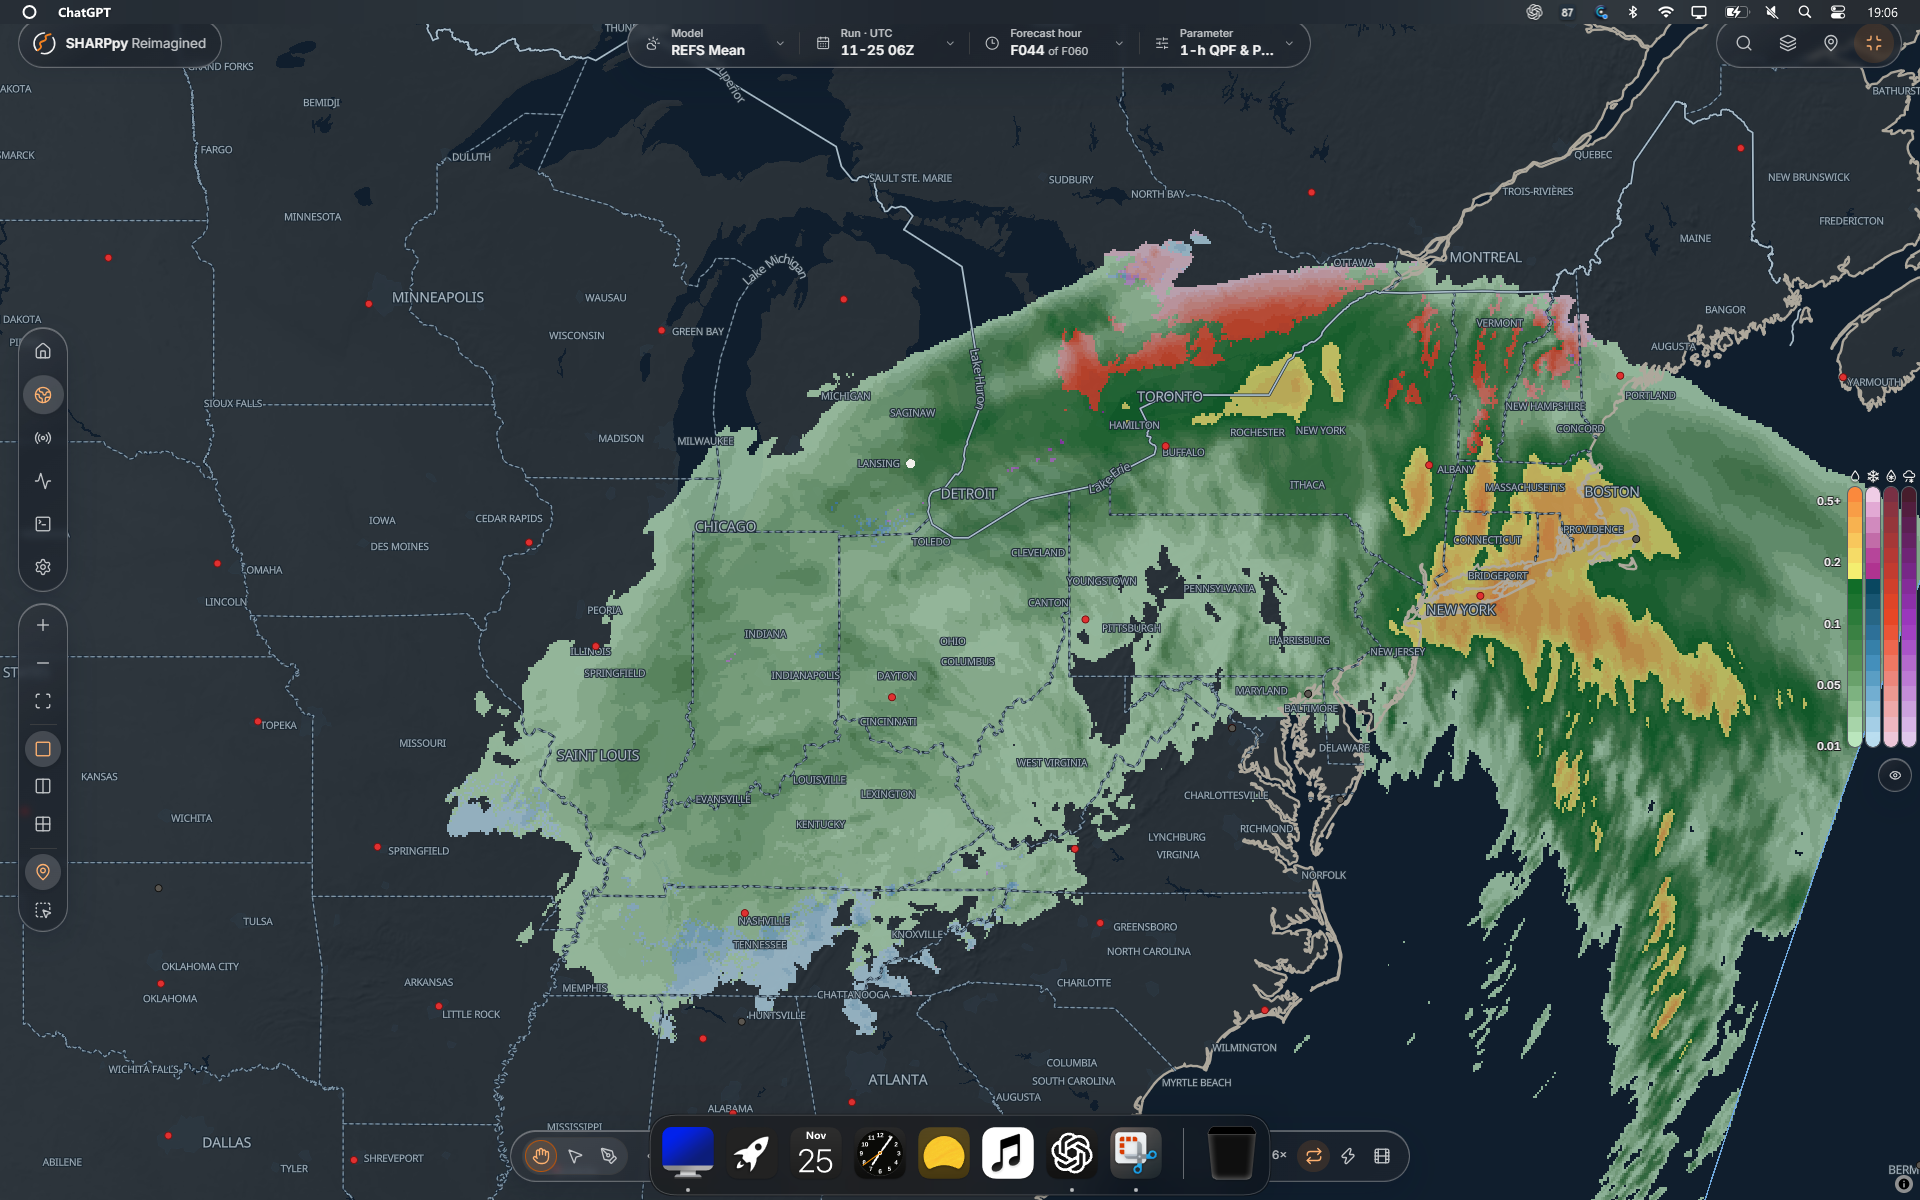
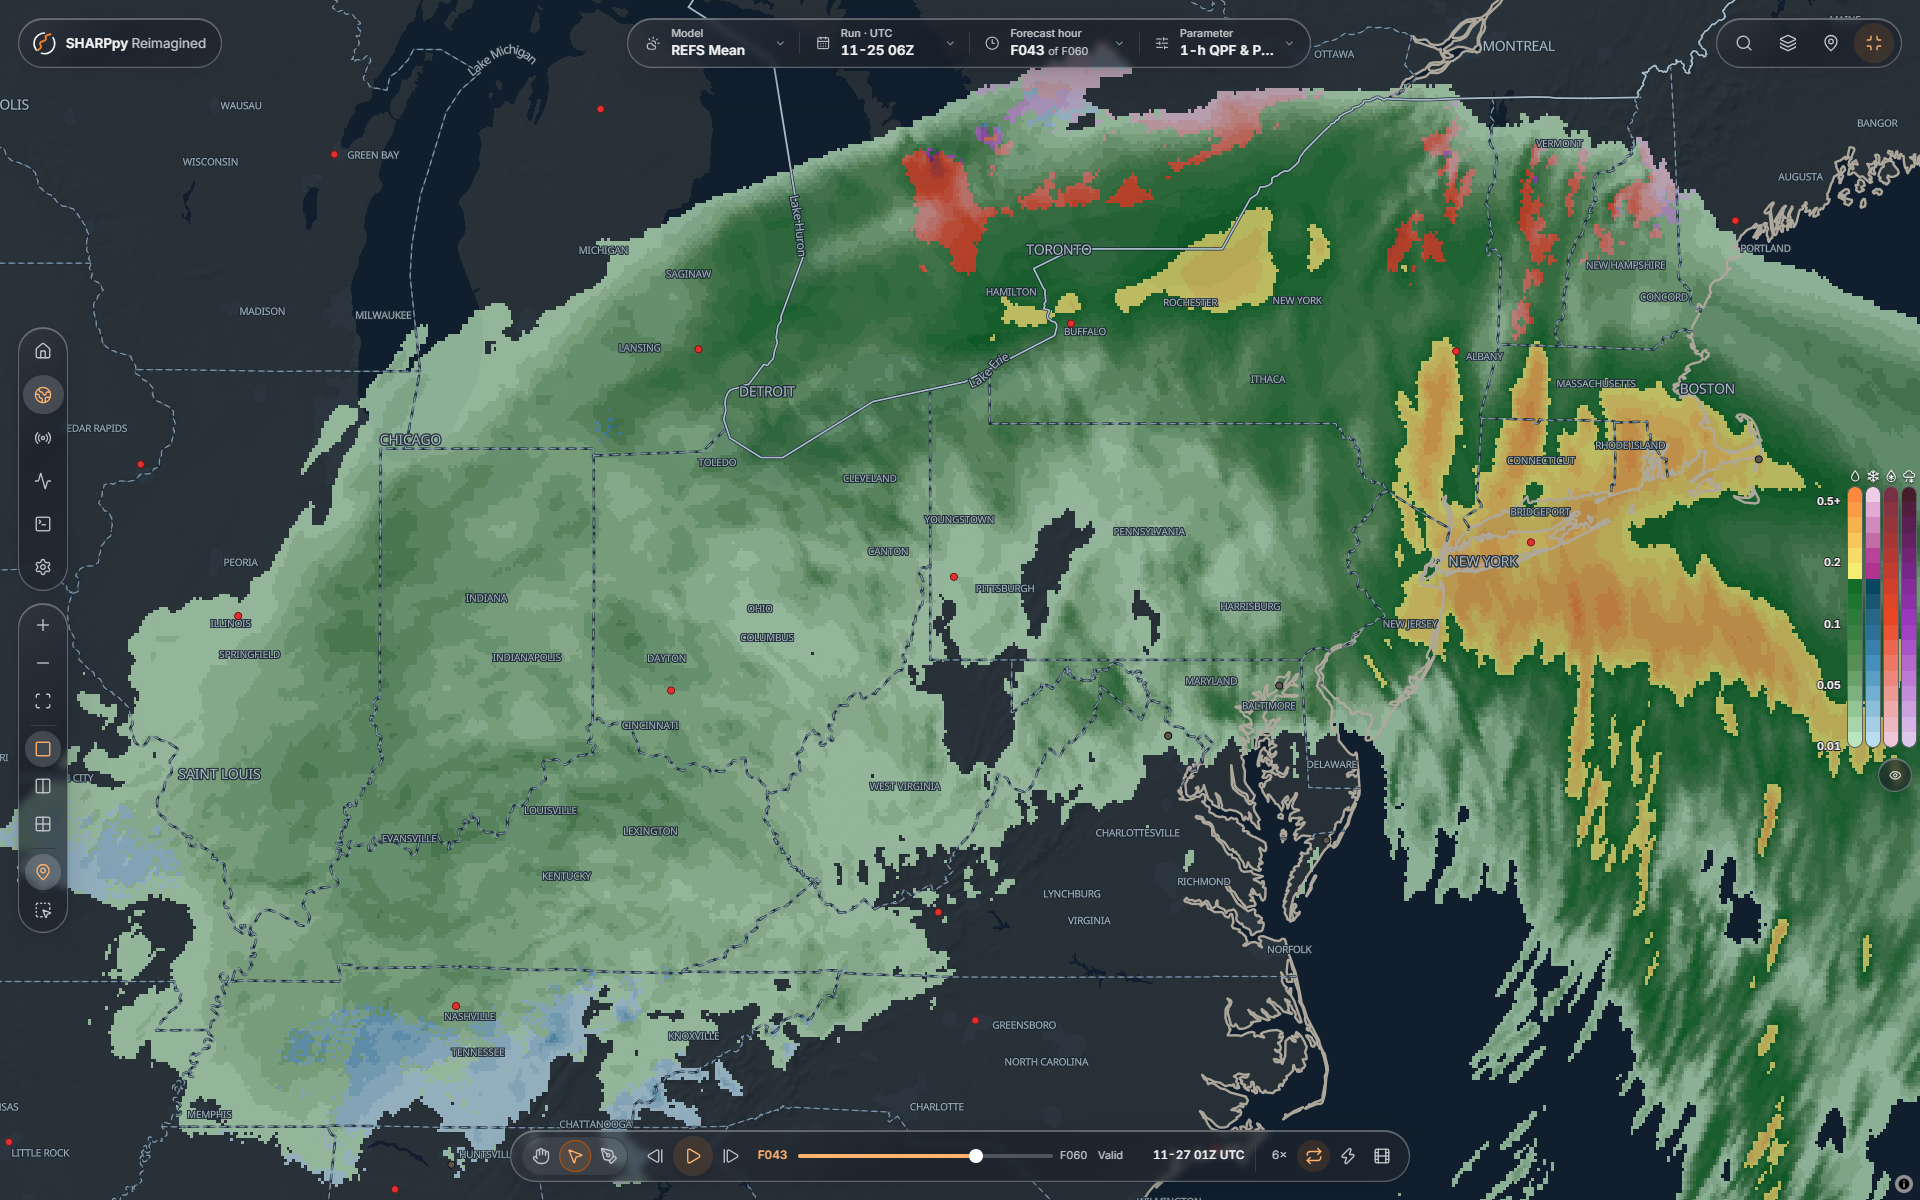
Replace the README precipitation screenshot

diff --git a/CHANGELOG.md b/CHANGELOG.md
@@ -105,8 +105,9 @@ Target version: **3.10.0** (not published).
 - Restyle the Overview outlooks with the app's glass surface, a prominent risk
   summary, compact category and product icons, aligned UTC timing, and a
   continuous forecast discussion reader.
-- Refresh the README gallery with v3.10.0 screenshots of Overview, Model Viewer,
-  Live Tracking, and Soundings.
+- Refresh the README gallery with full-resolution v3.10.0 screenshots of
+  Overview, the REFS Mean parameter picker and precipitation map, Live Tracking,
+  and Soundings.
 - Start Model Viewer panels with Road networks and Rivers off by default.
 - Preserve subtle map shading and frame-to-frame color changes in forecast and
   sounding GIFs while keeping cropped-frame compression.
